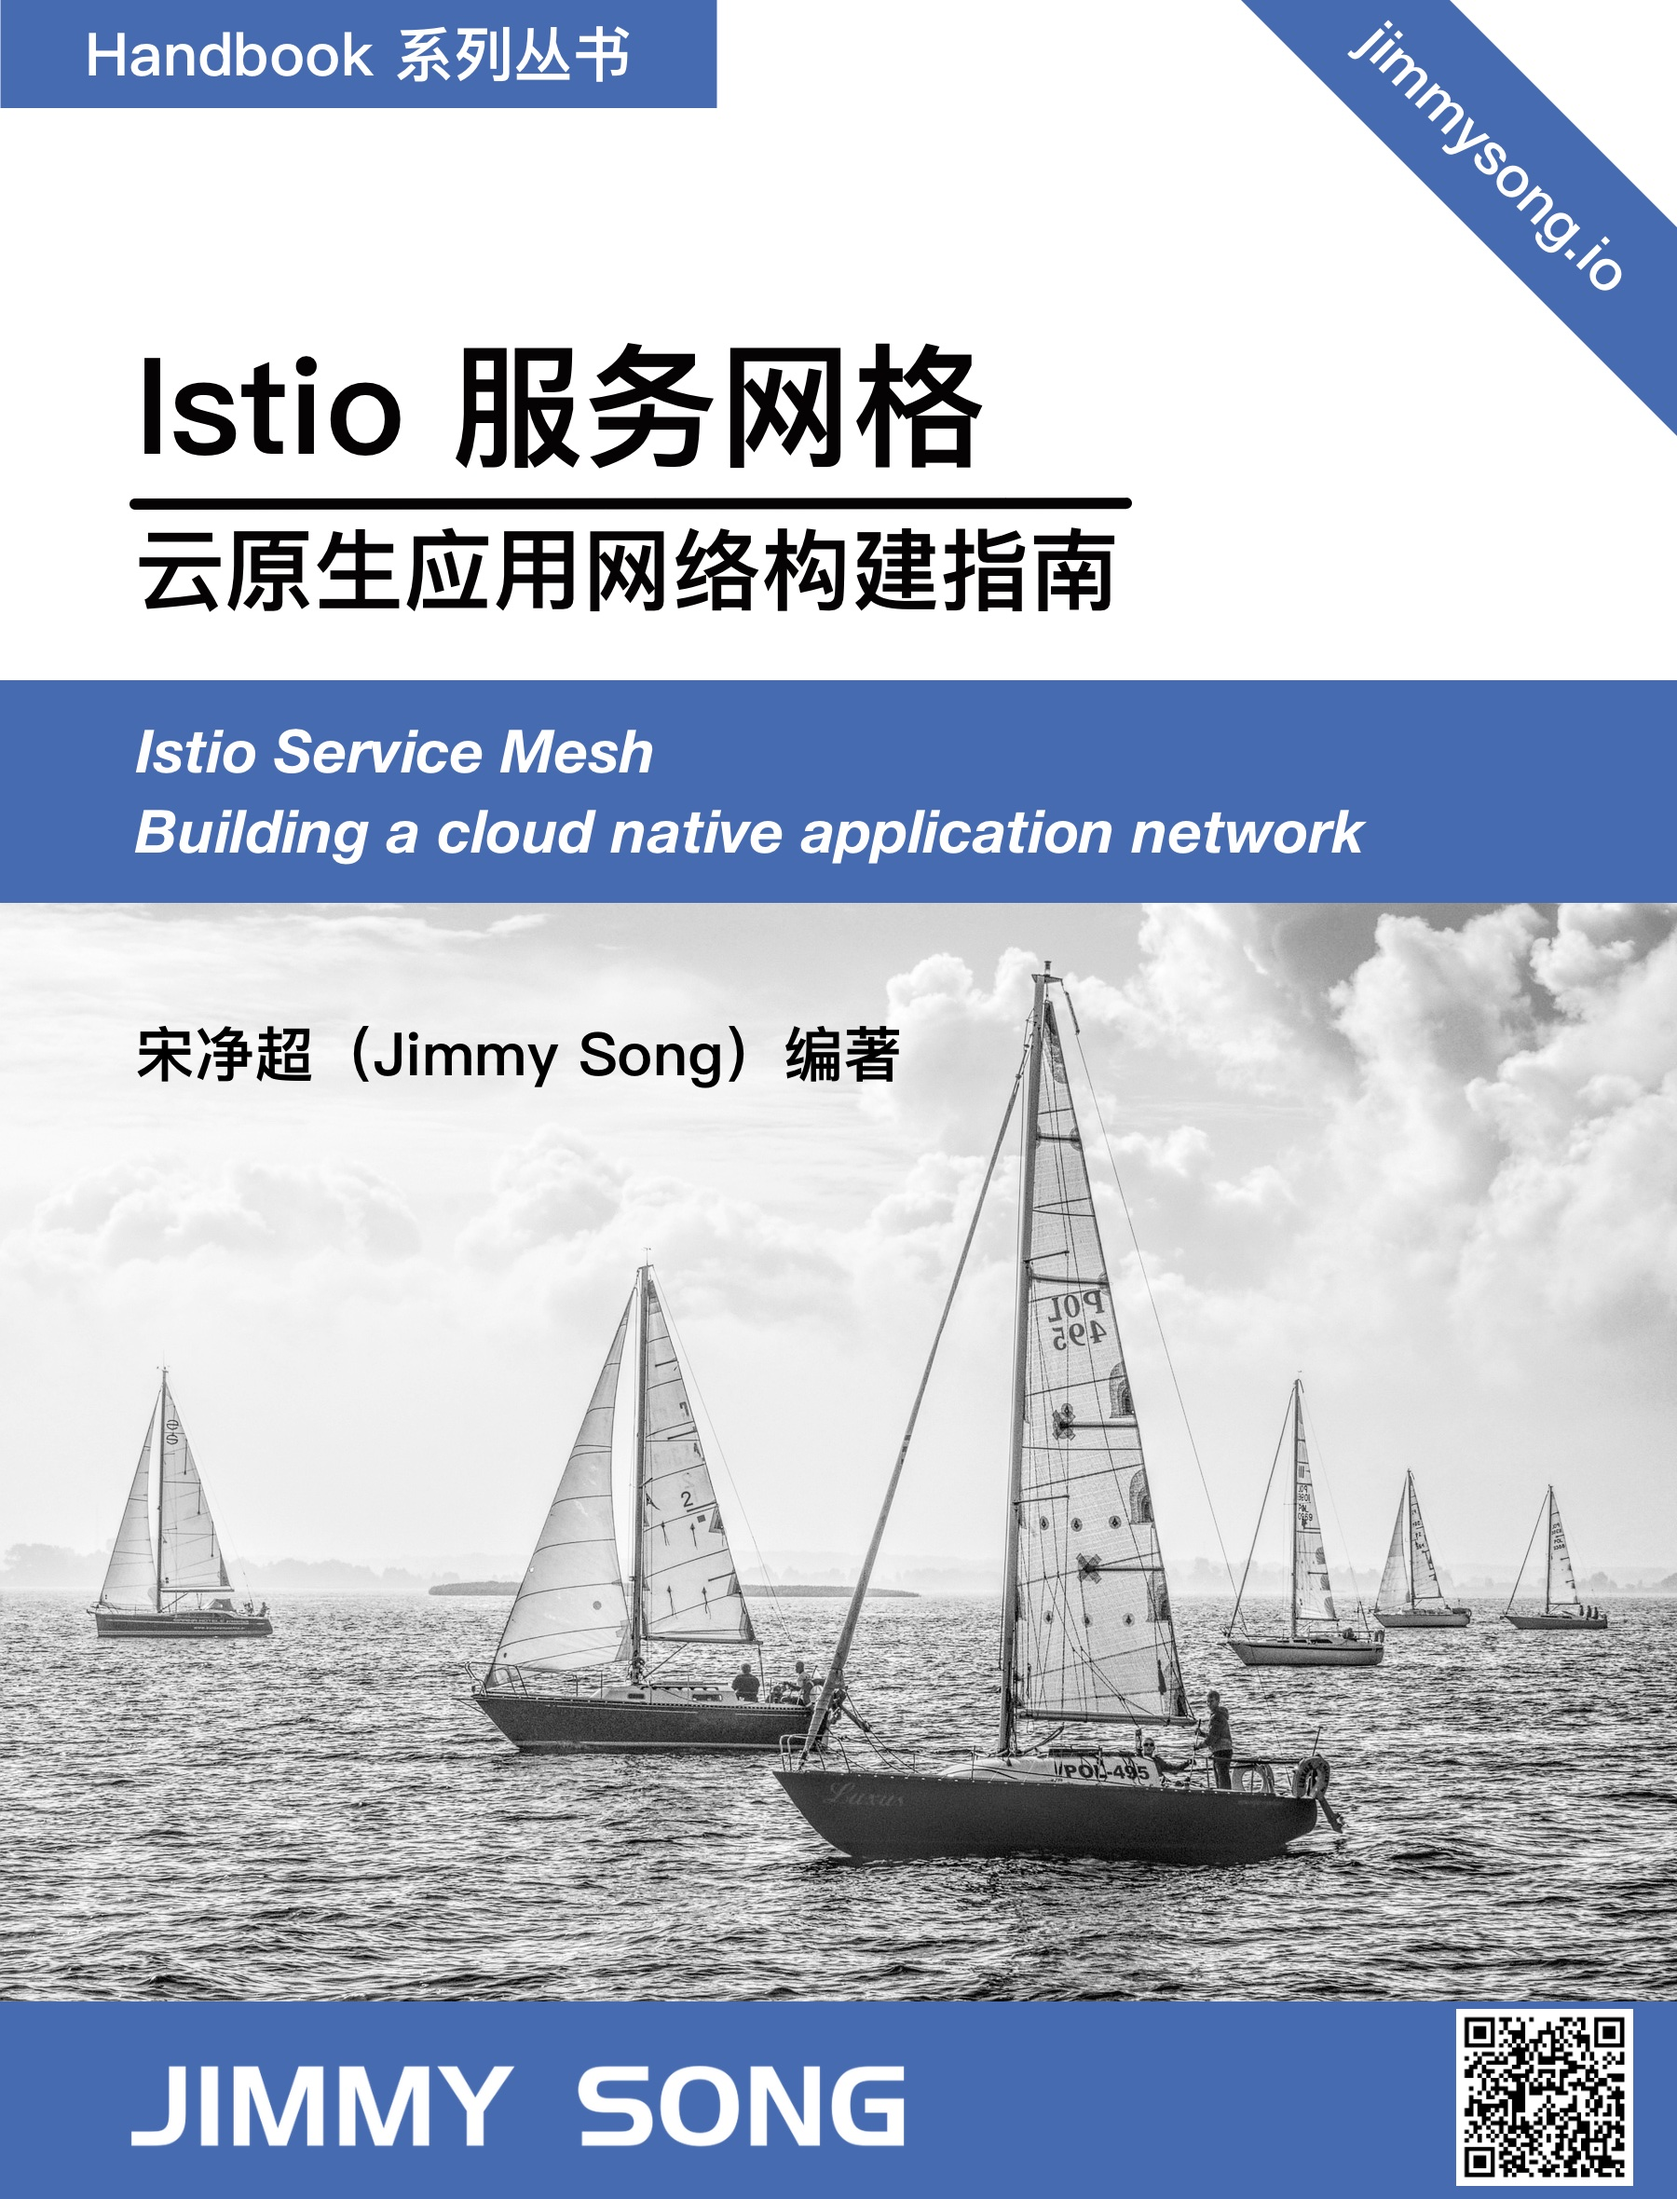
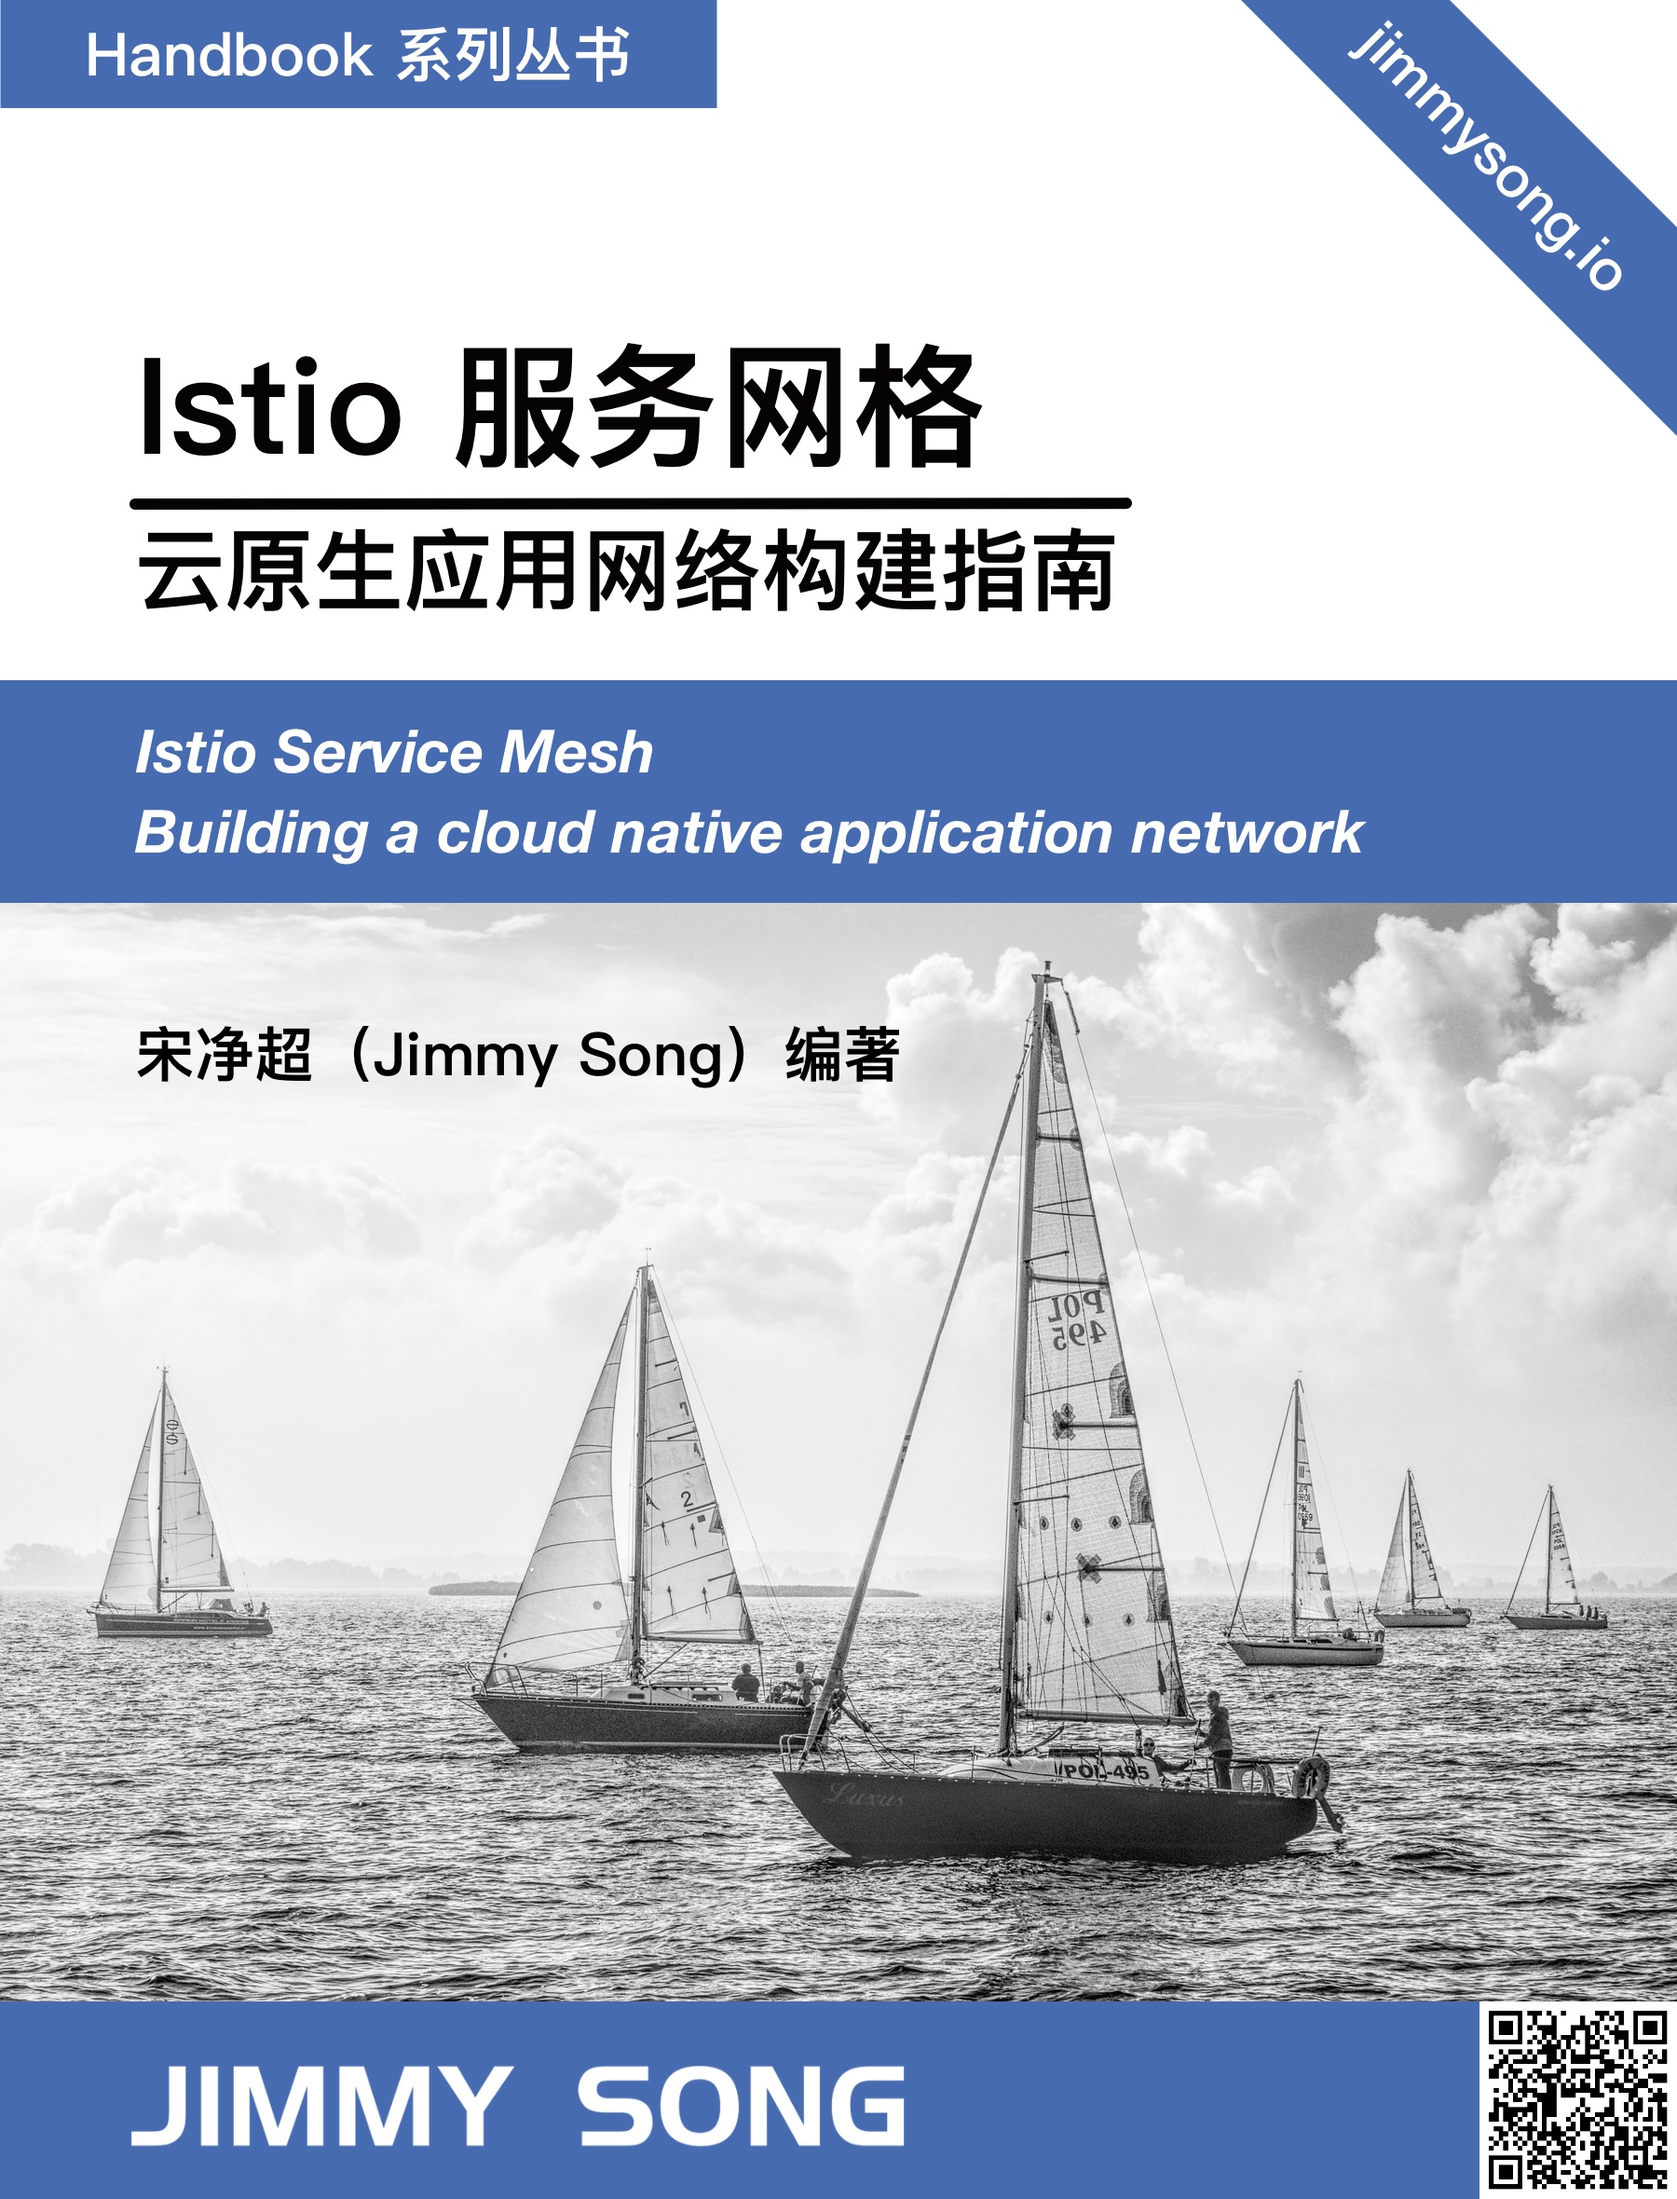
update cover

Changed region(s): [[0.84, 0.897, 1.0, 1.0]]

diff --git a/README.md b/README.md
@@ -4,9 +4,10 @@
 
 <p align="center">
   <a href="https://jimmysong.io/istio-handbook">
-    <img src="images/cover-thumbnail.jpg" alt="Istio 服务网格——云原生应用网络构建指南">
+    <img src="cover-thumbnail.jpg" alt="Istio 服务网格——云原生应用网络构建指南">
   </a>
 </p>
+
 
 ## 关于本书
 
